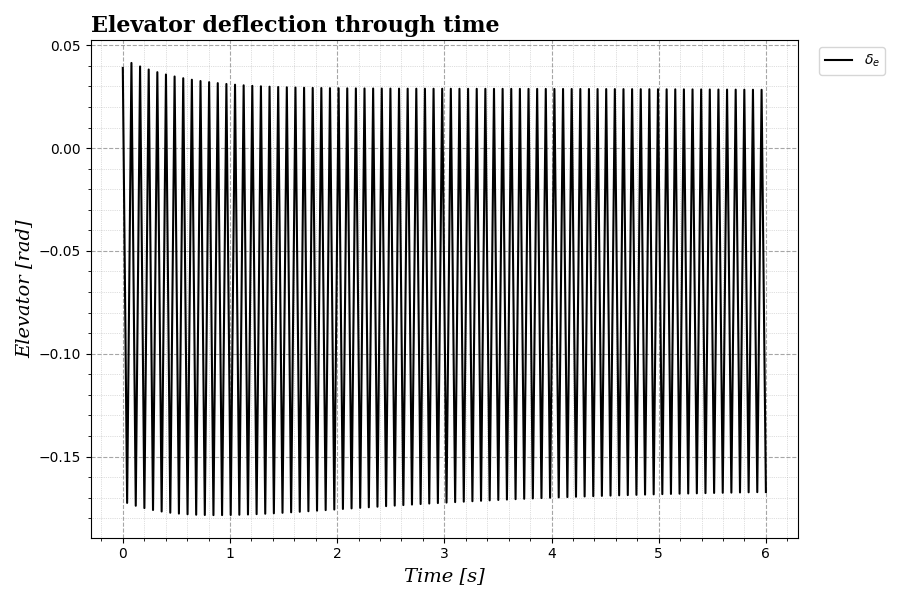
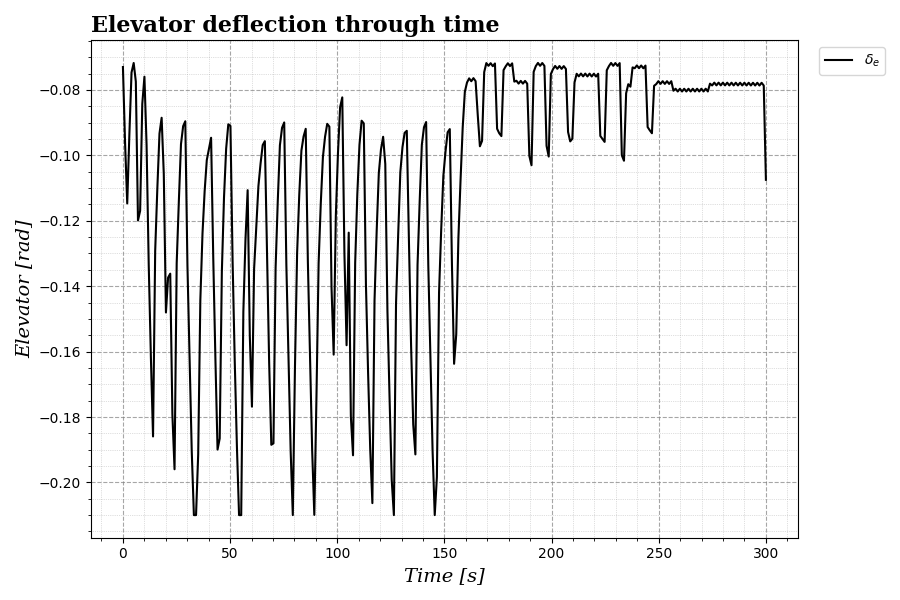
Some comments modified. Weights modified to minimise controls and gamma rate above altitude variation and gamma.

diff --git a/code/main_IPOPT.py b/code/main_IPOPT.py
@@ -6,7 +6,6 @@ from simulation import Sim
 from atmosphere import Atmos
 from nonlinearprogramming import NLP_CRUISE
 from plotterfunction import Plotter
-import matplotlib.pyplot as plt
 
 ###########################################################
 ##                  USER CONFIGURATION                   ##
@@ -47,14 +46,11 @@ print("SIMULATION CONDITIONS LOADED: dT=",sim.dT,"tF=", sim.tF)
 # Initial mass.
 sim.x0[7] = aircraft.BEM + aircraft.FM + aircraft.PM
 
-# Initial rho.
-sim.x0[8] = atmos.ISA_RHO(-sim.x0[6])
-
 # Computation of trim conditions for controls at initial state.
 x0 = sim.x0[1:8]
 
 # Initial state vector
-sim.w0 = ca.vertcat(x0, [1.0, 0.0])
+sim.w0 = ca.vertcat(x0, [0.75, 0.05])
 
 ###########################################################
 ##          PROBLEM DEFINITION AND SOLUTION              ##
@@ -87,9 +83,9 @@ sol = solver(
 )
 
 # Retrieving of iterations values and objective value.
-iters = solver.stats()['iter_count']
-obj = solver.stats()['iterations']['obj']
-time = np.round(solver.stats()['t_proc_total'],3)
+#iters = solver.stats()['iter_count']
+#obj = solver.stats()['iterations']['obj']
+#time = np.round(solver.stats()['t_proc_total'],3)
 
 ###########################################################
 ##                     POSTPROCESS                       ##
@@ -185,7 +181,9 @@ Fxb = [a + b for a,b in zip(Fxb_A,Fxb_W)]
 alpha = np.arctan2(x2 - sim.wind[1], x1 - sim.wind[0])
 
 # PLOTS
-path = "/home/abimael_campillo/Desktop/TFG_Campillo_Abimael/code/images/benchmark"
+
+path = os.path.join(os.getcwd(), "images", "benchmark")
+os.makedirs(path, exist_ok=True)
 Plotter.GENERATE_PLOT(t,np.column_stack((x1, x2)),["u","w"],["Time [s]", "Velocity [m/s]","Body velocities through time","VEL.png"],path)
 Plotter.GENERATE_PLOT(t,np.column_stack((x4, alpha)),[r"$\theta$",r"$\alpha$"],["Time [s]", "Angles [rad]","Pitch and AoA through time","ANGLES.png"],path)
 Plotter.GENERATE_PLOT(t,x7,"Mass",["Time [s]", "Mass [kg]","Aircraft's mass through time","MASS.png"],path) 
@@ -194,4 +192,4 @@ Plotter.GENERATE_PLOT(t,np.column_stack((Fzb_A, Fzb_W)),["Aerodynamic", "Weight"
 Plotter.GENERATE_PLOT(t,u1,r"$\delta_T$",["Time [s]", "TPS [-]","Throttle position through time","CONTROL_dT.png"],path)
 Plotter.GENERATE_PLOT(t,u2,r"$\delta_e$",["Time [s]", "Elevator [rad]","Elevator deflection through time","CONTROL_de.png"],path)
 Plotter.GENERATE_PLOT(x5,-x6,"Trajectory",["Horizontal distance [m]", "Altitude AGL [m]","Aircraft's trajectory","TRAJECTORY.png"],path)
-Plotter.GENERATE_PLOT(np.linspace(1,iters+1,len(obj)),np.array(obj),"Objective cost",["Iterations [-]", "Cost objective [-]", "Cost evolution. Total computation time: " f"{time} s", "COST.png"], path)
+#Plotter.GENERATE_PLOT(np.linspace(1,iters+1,len(obj)),np.array(obj),"Objective cost",["Iterations [-]", "Cost objective [-]", "Cost evolution. Total computation time: " f"{time} s", "COST.png"], path)

diff --git a/code/nonlinearprogramming.py b/code/nonlinearprogramming.py
@@ -1,6 +1,5 @@
 import casadi as ca
 import numpy as np
-from scipy.optimize import fsolve
 
 class NLP_CRUISE:
     def __init__(self):
@@ -24,28 +23,6 @@ class NLP_CRUISE:
             uk = ca.MX.sym(f"u{k}", nu)
             w = ca.vertcat(w, xk, uk)
         return w
-    
-    @staticmethod 
-    def TRIM_CONTROLS(x0,ac,at,sim):
-
-        def EOM(u):
-            # EQUATIONS OF MOTION
-            u1, u2 = u
-            w = np.hstack([x0, u1, u2])  
-            uk, wk, _, _, _, _, _ = NLP_CRUISE.DYNAMIC_EQUATIONS(w,ac,at,sim)
-            return [uk, wk]
-
-        # INITIAL GUESS
-        u_initial = np.array([1.0, -0.065])
-
-        # SOLVE TRIM CONTROLS
-        u_trim,_,flag,_ = fsolve(EOM, u_initial, full_output=True)
-        
-        if flag != 1:
-            print("Warning: Trim controls did not converge.")
-
-        dt_trim, de_trim = u_trim
-        return dt_trim, de_trim
         
     @staticmethod
     def DYNAMIC_EQUATIONS(w,ac,at,sim):
@@ -140,10 +117,10 @@ class NLP_CRUISE:
         ubg_path = []
 
         # Path constraints. Inequality constraints.
-        g_path.append(0.9*sim.Vtp - ca.sqrt(ua**2 + wa**2))
+        g_path.append(0.95*sim.Vtp - ca.sqrt(ua**2 + wa**2))
         lbg_path.append(-1e20)
         ubg_path.append(0)
-        g_path.append(ca.sqrt(ua**2 + wa**2) - 1.1*sim.Vtp)
+        g_path.append(ca.sqrt(ua**2 + wa**2) - 1.05*sim.Vtp)
         lbg_path.append(-1e20)
         ubg_path.append(0)   
 
@@ -276,11 +253,11 @@ class NLP_CRUISE:
 
         for k in range(N-1):
             # Weights assignation for gamma, gamma dot and controls.
-            wg = 0.10
-            wh = 0.10
-            wg_dot = 0.2
-            wdt = 0.25
-            wde = 0.25
+            wg = 0.0
+            wh = 1.0
+            wg_dot = 0.0
+            wdt = 0.0
+            wde = 0.0
 
             # Normalisation vars.
             g_max = np.deg2rad(12.0)
